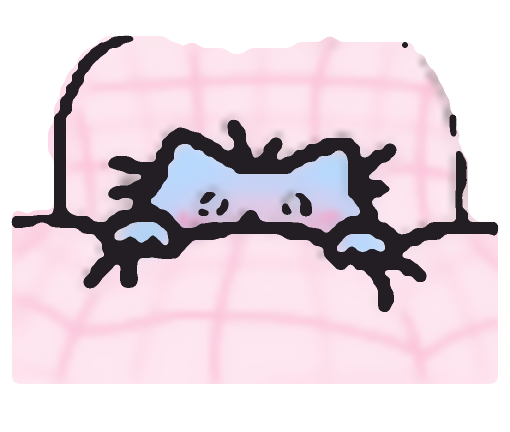
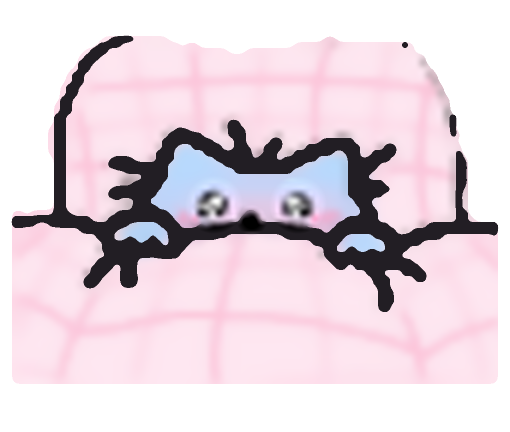
Javítás: az ágyban fekvő cica szeme és orra újra látszik
Claude-Session: https://claude.ai/code/session_0147rMSUhfh921N6BdCdXTQF

Changed region(s): [[0.3824, 0.4213, 0.6176, 0.5417]]

diff --git a/sw.js b/sw.js
@@ -1,6 +1,6 @@
 // Offline mód: a Kék Cica internet nélkül is működik.
 // Ha új verziót töltesz fel, emeld meg a VERZIO számot.
-const VERZIO = "kekcica-v3";
+const VERZIO = "kekcica-v4";
 const FAJLOK = [
     "./", "index.html", "style.css", "app.js", "beallitasok.js", "manifest.json",
     "apple-touch-icon.png", "ikon-192.png", "ikon-512.png",

diff --git a/forras/szem_javit.py b/forras/szem_javit.py
@@ -1,0 +1,19 @@
+import numpy as np, cv2
+from PIL import Image
+S = 6
+orig = cv2.cvtColor(cv2.imread('szomoru_takaro.png'), cv2.COLOR_BGR2RGB)
+new = np.array(Image.open('ki/szomoru_takaro.png').convert('RGBA')).astype(np.float32)
+# bicubic nagyítás a szem környékéről az eredeti képből
+big = cv2.resize(orig, None, fx=S, fy=S, interpolation=cv2.INTER_CUBIC).astype(np.float32)
+# kontraszt kicsit emelve, hogy a szem ne legyen ködös
+big = np.clip((big - 128) * 1.12 + 128, 0, 255)
+H, W = new.shape[:2]
+yy, xx = np.mgrid[0:H, 0:W]
+mask = np.zeros((H, W), np.float32)
+for cx, cy, r in [(35.6, 34.0, 4.9), (49.6, 34.0, 4.9), (41.9, 36.6, 2.6)]:  # szemek és orr (px)
+    d = np.hypot(xx - cx * S, yy - cy * S)
+    mask = np.maximum(mask, np.clip((r * S - d) / (1.2 * S), 0, 1))
+mask = mask[..., None]
+new[..., :3] = new[..., :3] * (1 - mask) + big * mask
+new[..., 3] = np.maximum(new[..., 3], mask[..., 0] * 255)
+Image.fromarray(np.clip(new, 0, 255).astype(np.uint8)).save('ki/szomoru_takaro.png')
